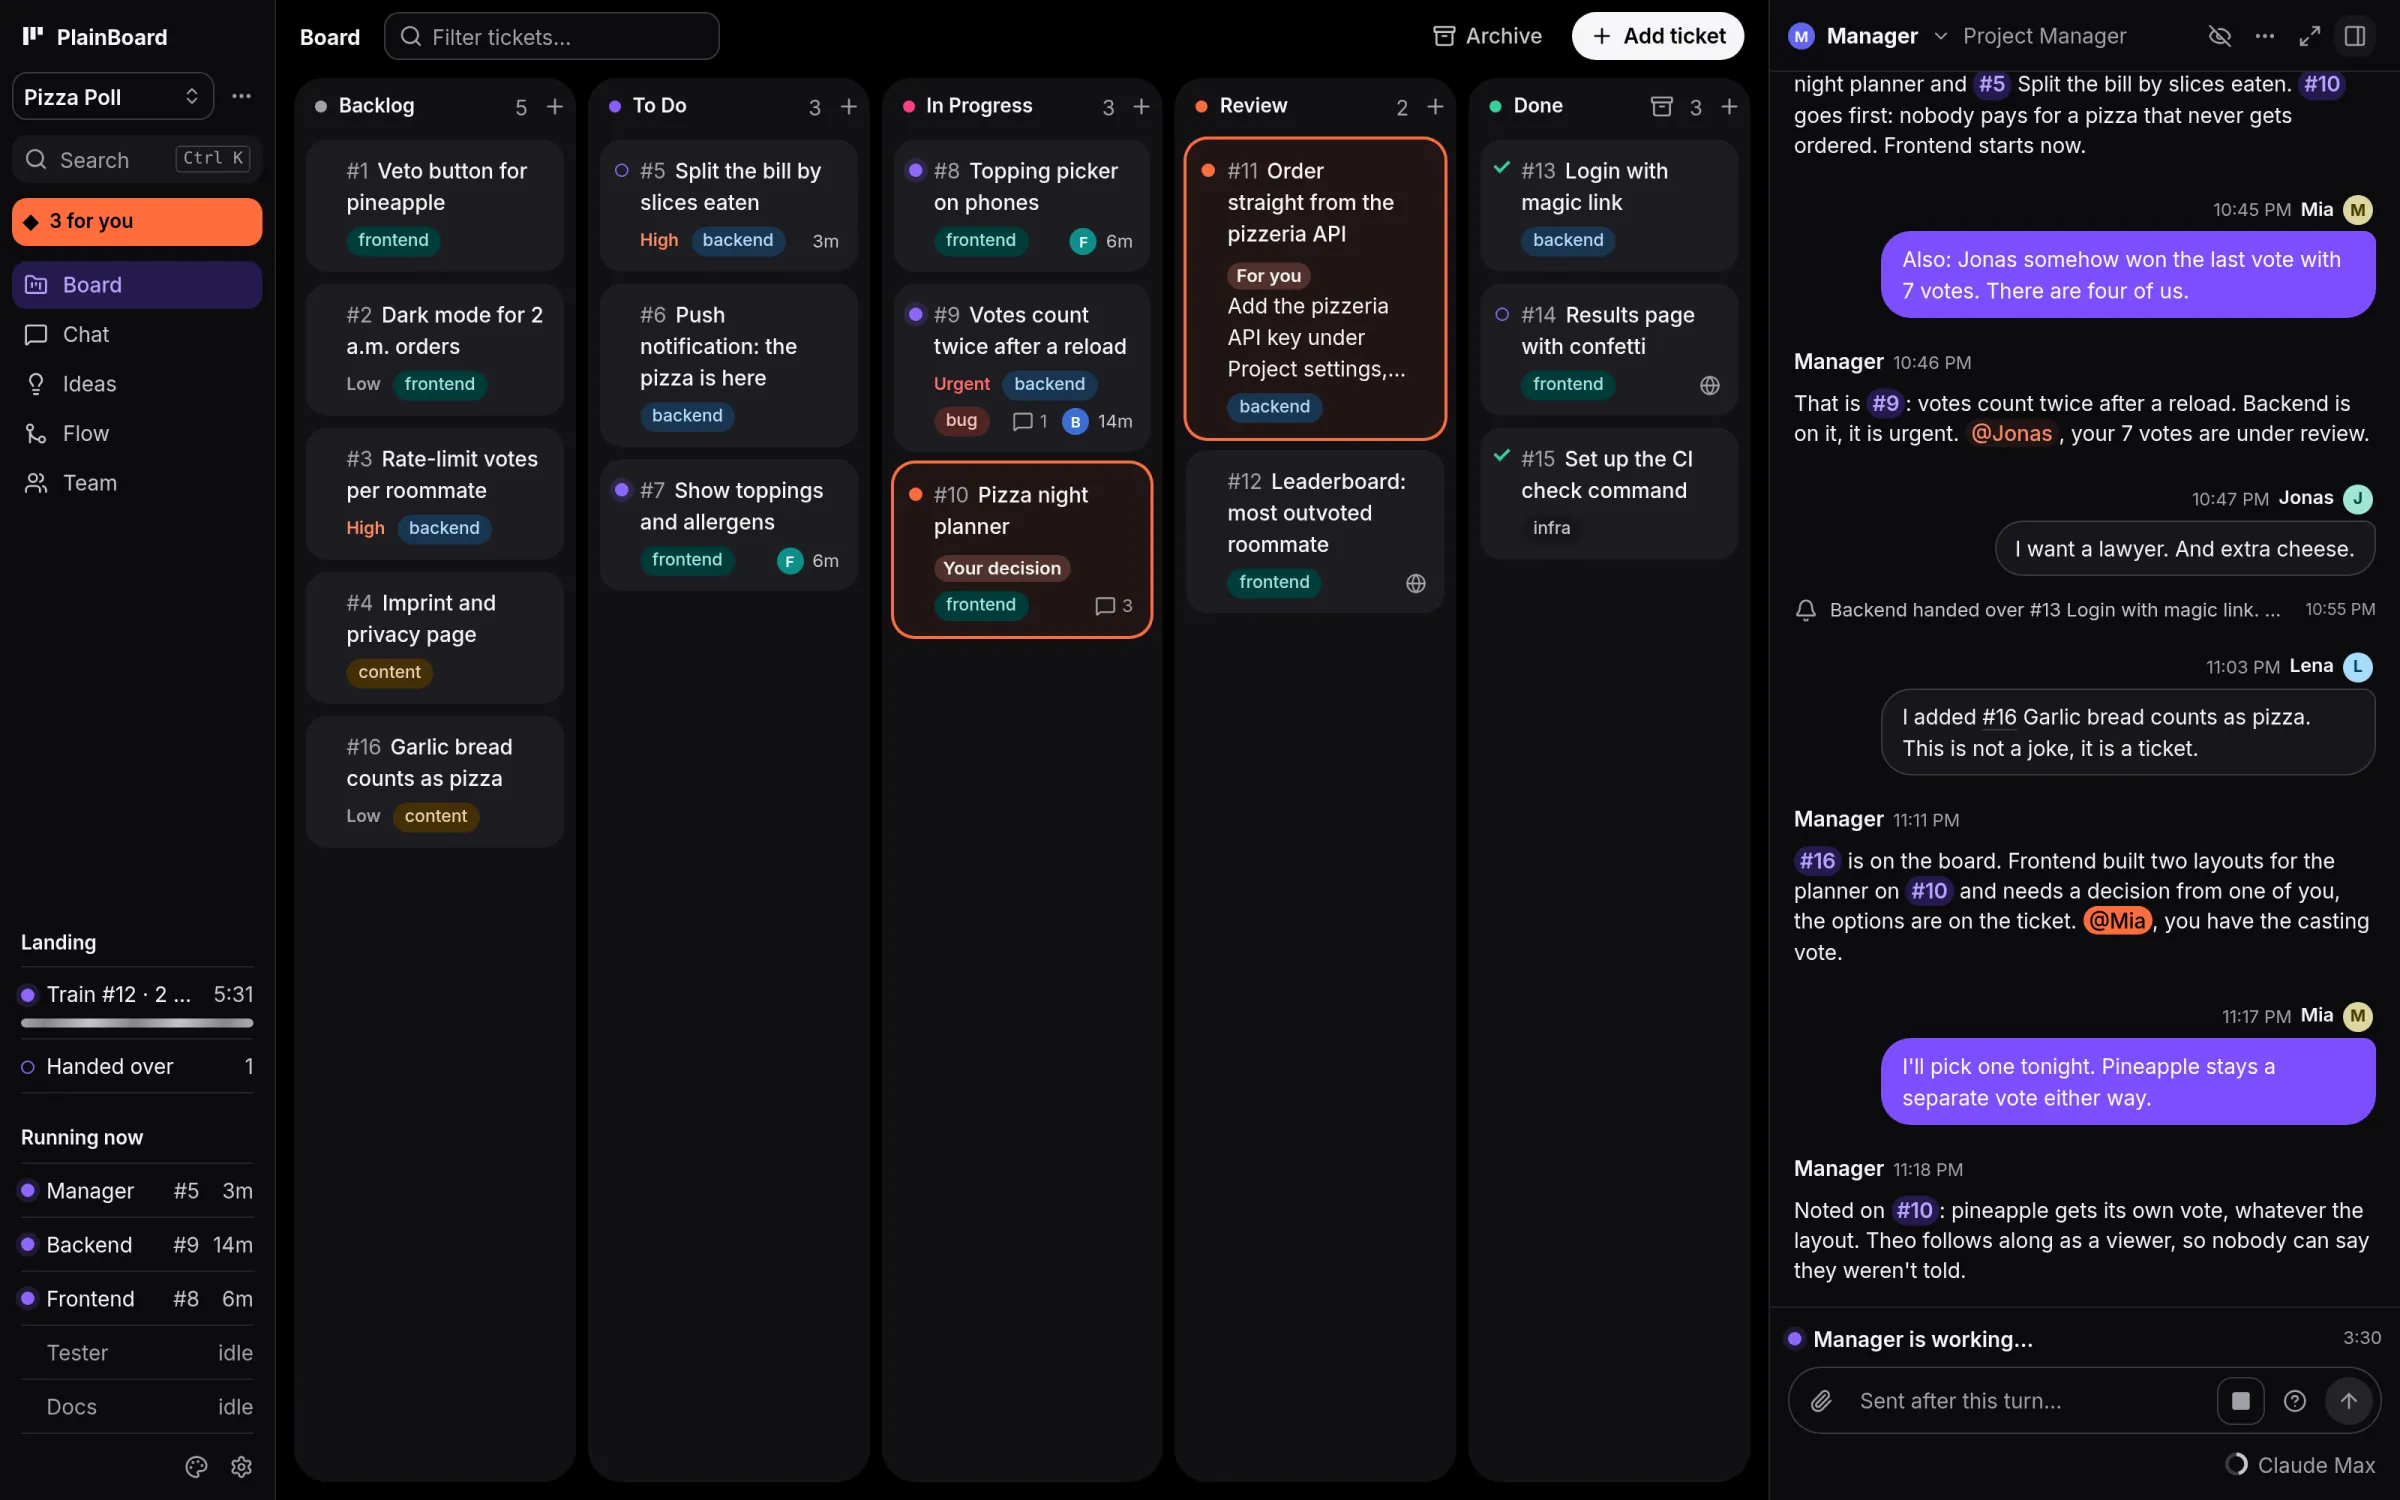
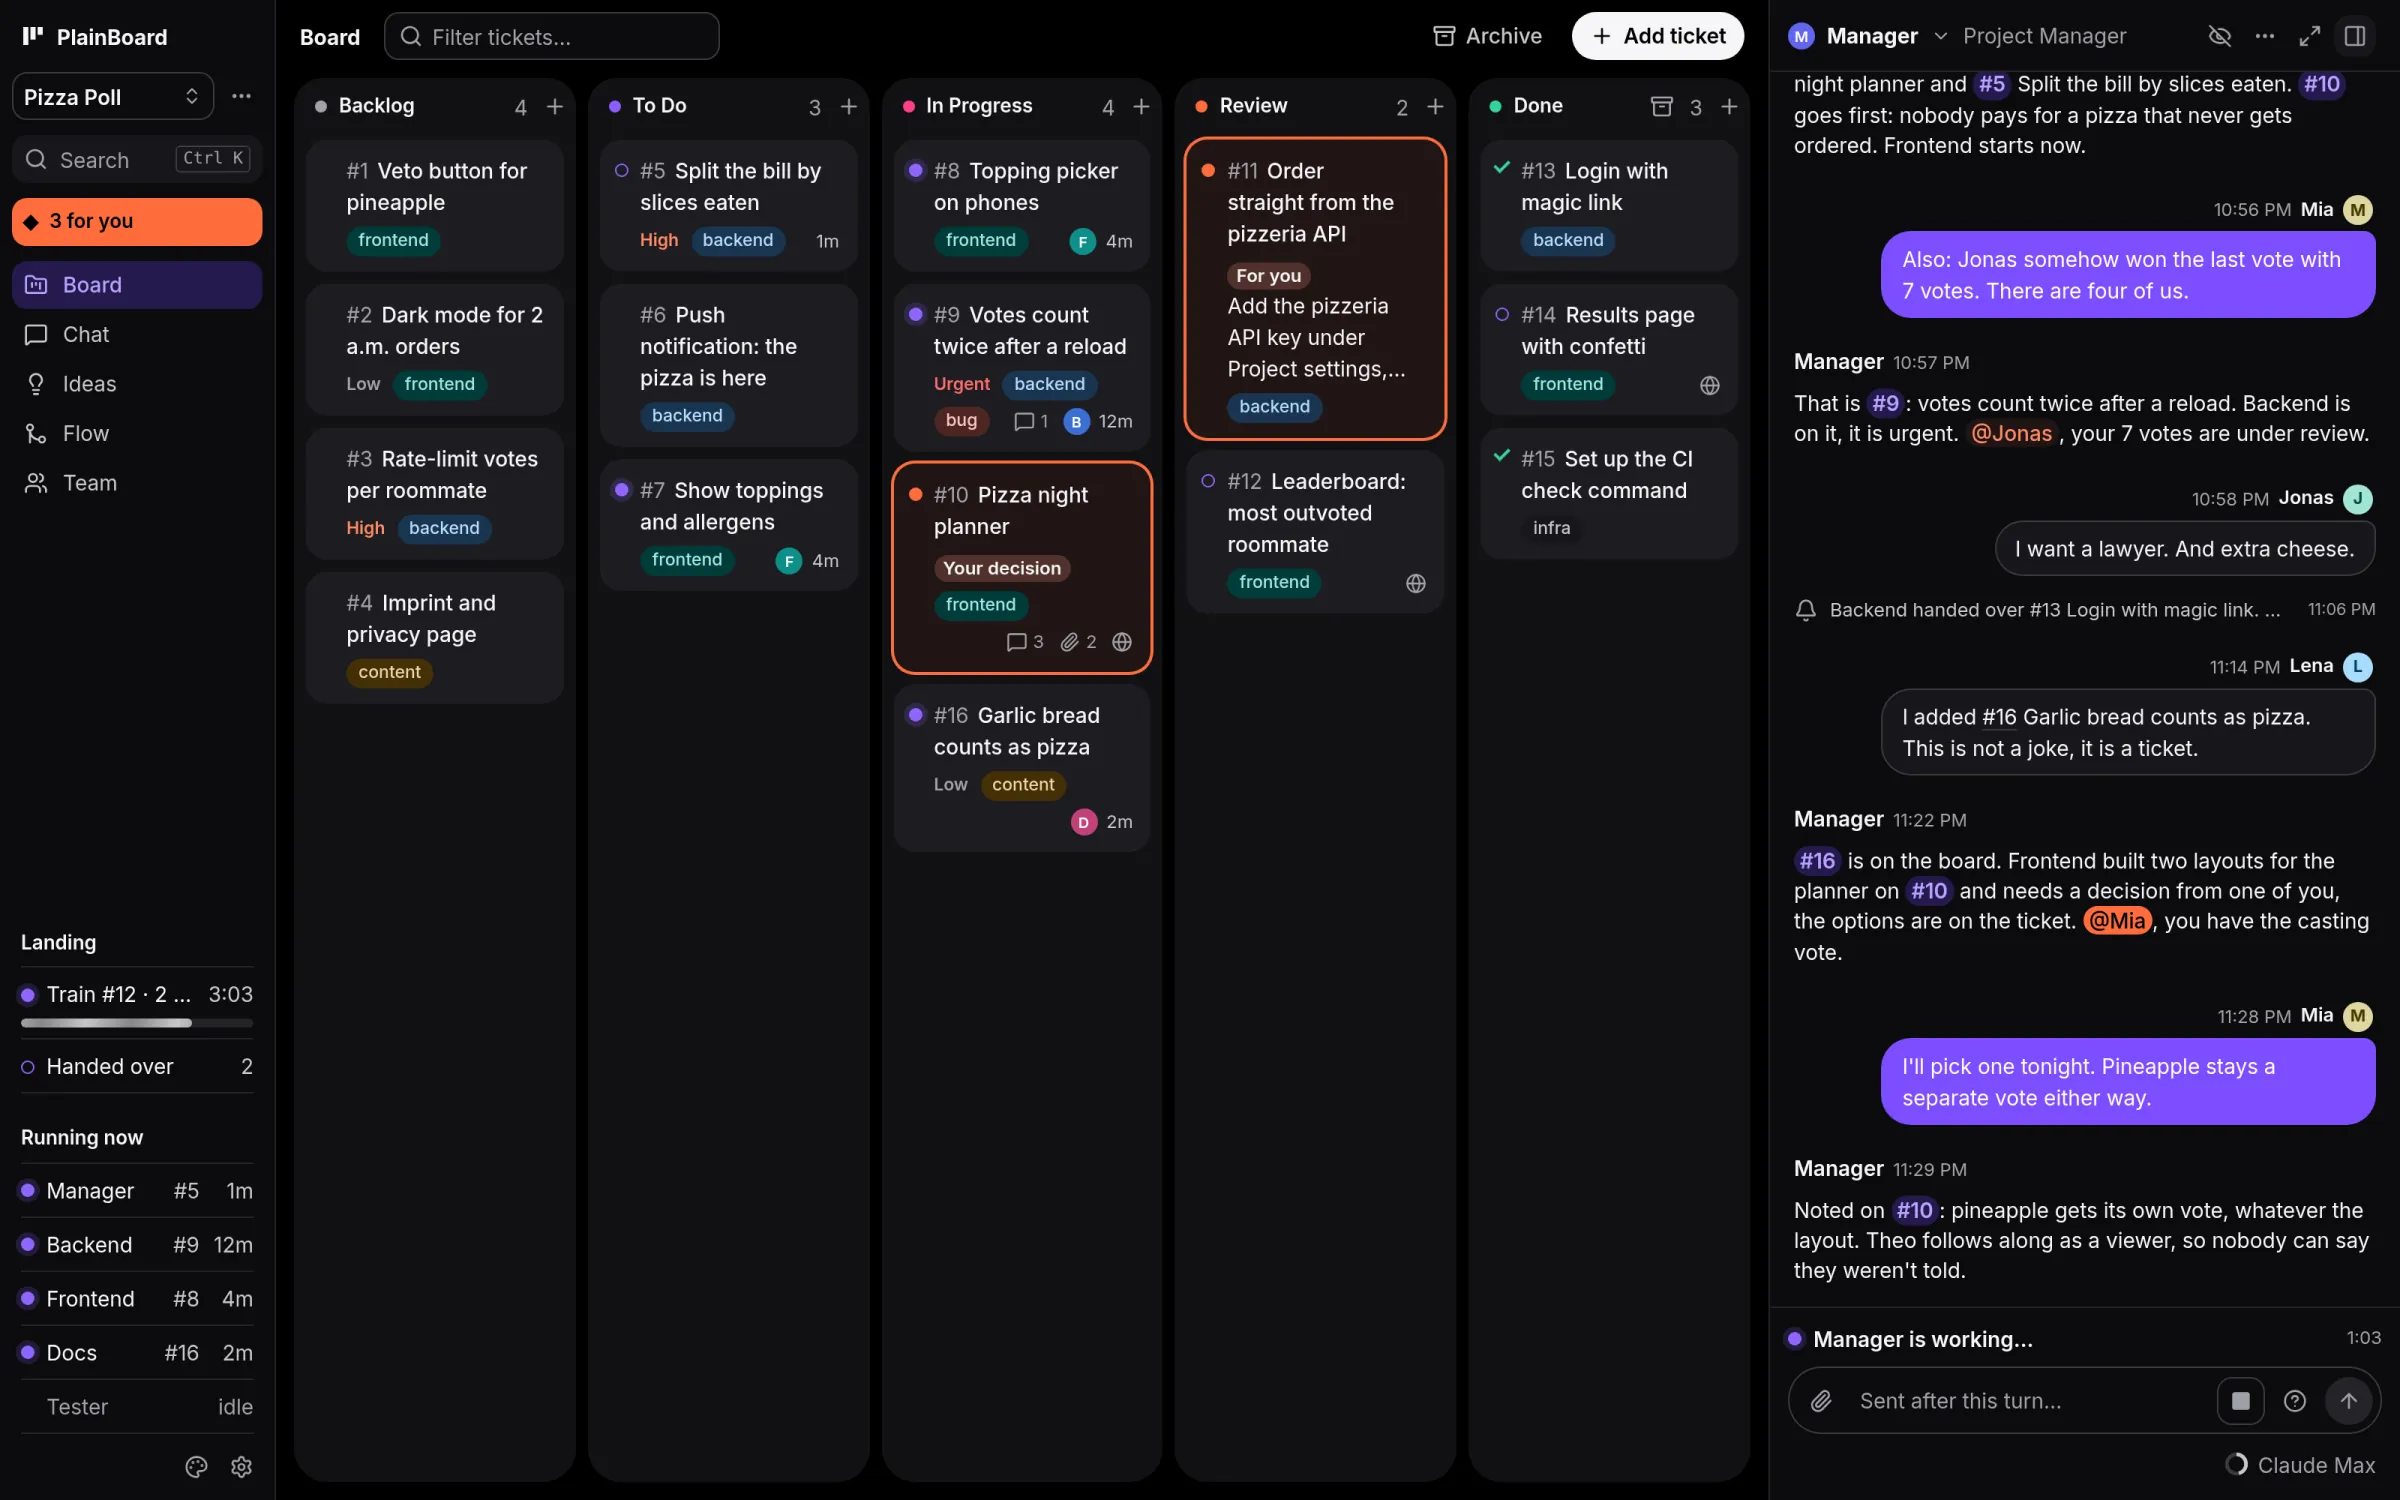
README screenshots: richer demo data, decision pictures, phone ticket (#105)
The demo project now has pictures on the two options of its decision, a customer text,
Docs at work in the second repository, a held branch and a train history with a failed
train and its repair, and a fourth idea topic. The members screenshot is cropped to its
content, and the phone row shows the decision instead of the ideas. The scripts in
scripts/screenshots carry all of it, including the two layout pictures.

diff --git a/scripts/screenshots/seed_db.py b/scripts/screenshots/seed_db.py
@@ -18,16 +18,19 @@ agents = {a.name: a.id for a in s.scalars(select(m.Agent).where(m.Agent.project_
 MGR, BE, FE, TE = agents["Manager"], agents["Backend"], agents["Frontend"], agents["Tester"]
 tasks = {t.number: t for t in s.scalars(select(m.Task).where(m.Task.project_id == P))}
 s.execute(update(m.Project).where(m.Project.id == P).values(label_colors={"backend": "blue", "frontend": "teal", "content": "amber", "bug": "red", "infra": "gray"}))
-status = {5: "todo", 6: "todo", 7: "todo", 8: "in_progress", 9: "in_progress", 10: "in_progress", 11: "review", 12: "review", 13: "done", 14: "done", 15: "done"}
+status = {5: "todo", 6: "todo", 7: "todo", 8: "in_progress", 9: "in_progress", 10: "in_progress", 16: "in_progress", 11: "review", 12: "review", 13: "done", 14: "done", 15: "done"}
 for n, st in status.items():
     tasks[n].status = st; tasks[n].position = n * 1024
 tasks[11].user_action = "Add the pizzeria API key under Project settings, Secrets, then tell the manager."
 tasks[12].customer_title = "Leaderboard"; tasks[14].customer_title = "Results page"
+tasks[10].customer_title = "Plan pizza night in one place"
+tasks[10].customer_description = "Who comes, which pizzeria and when to order, on one page."
 tasks[10].description = "## Goal\n\nOne page to plan Friday: who comes, which pizzeria, when to order.\n\n- Works on phones\n- Pineapple is its own vote"
+shots = list(s.scalars(select(m.Attachment.id).where(m.Attachment.task_id == tasks[10].id).order_by(m.Attachment.id)))
 s.add(m.Decision(project_id=P, task_id=tasks[10].id, requested_by_agent_id=FE, question="Which layout for the planner?",
                  details="Both are built and running on the preview. Pick one, the other goes.",
-                 options=[{"label": "A: One list", "description": "Everything on one page: guests, pizzeria, time. Quick on phones.", "attachment_ids": []},
-                          {"label": "B: Steps", "description": "Three short steps with a summary at the end. Fewer mistakes, one more tap.", "attachment_ids": []}],
+                 options=[{"label": "A: One list", "description": "Everything on one page: guests, pizzeria, time. Quick on phones.", "attachment_ids": [shots[0]]},
+                          {"label": "B: Steps", "description": "Three short steps with a summary at the end. Fewer mistakes, one more tap.", "attachment_ids": [shots[1]]}],
                  attachment_ids=[], status="open", created_at=ago(14), updated_at=ago(14)))
 for task, who, body, mins in [(10, "Jonas", "@mia you have the casting vote, I am biased towards anything with a checkbox.", 11), (10, "Lena", "B looks nicer, but A is what I would use at 7 p.m. on a Friday.", 9),
                               (9, "Theo", "Can confirm, I voted once and it says 2.", 30)]:
@@ -36,7 +39,8 @@ s.add(m.Comment(task_id=tasks[10].id, author_kind="agent", author_agent_id=FE, b
 
 # Running turns and assignments.
 runs = {}
-for agent, task, mins, trig in [(BE, 9, 12, "assignment"), (FE, 8, 4, "assignment"), (MGR, 5, 1, "ticket")]:
+DOCS = agents["Docs"]
+for agent, task, mins, trig in [(BE, 9, 12, "assignment"), (FE, 8, 4, "assignment"), (DOCS, 16, 2, "assignment"), (MGR, 5, 1, "ticket")]:
     r = m.Run(project_id=P, agent_id=agent, trigger=trig, status="running", task_id=tasks[task].id, context_tokens=48000 if agent == MGR else 12000, created_at=ago(mins), started_at=ago(mins))
     s.add(r); s.flush(); runs[agent] = r
 def assignment(task, agent, title, st, mins, finished=None):
@@ -48,6 +52,7 @@ def assignment(task, agent, title, st, mins, finished=None):
     return a
 assignment(9, BE, "Count every vote once, also after a reload", "running", 12)
 assignment(8, FE, "Topping picker on phones", "running", 4)
+assignment(16, DOCS, "Garlic bread FAQ on the site", "running", 2)
 assignment(7, FE, "Show toppings and allergens", "queued", 3)
 assignment(13, BE, "Login with magic link", "done", 95, 41)
 assignment(14, FE, "Results page with confetti", "done", 120, 66)
@@ -75,7 +80,8 @@ users = {u.name: u.id for u in s.scalars(select(m.User))}
 s.add(m.Mention(user_id=users["Mia"], project_id=P, kind="chat", agent_id=MGR, author="Manager", excerpt="@mia, you have the casting vote.", created_at=ago(14)))
 s.add(m.Mention(user_id=users["Mia"], project_id=P, kind="comment", task_id=tasks[10].id, author="Jonas", excerpt="@mia you have the casting vote, I am biased towards anything with a checkbox.", created_at=ago(11)))
 
-# Subscriptions and their limits.
+# Subscriptions and their limits; Tester runs on Codex, so both rings show.
+s.execute(update(m.Agent).where(m.Agent.id == TE).values(provider="codex"))
 s.execute(delete(m.Account))
 s.add(m.Account(provider="claude_code", label="Claude Max", key="demo-claude", auth_mode="oauth_token", enabled=True))
 s.add(m.Account(provider="codex", label="ChatGPT Pro", key="demo-codex", auth_mode="chatgpt", enabled=True))
@@ -104,17 +110,30 @@ for rid, branch, title, agent, task, st, mins, tr, merged in [
     (app.id, "fe/results-confetti", "Results page with confetti", FE, 14, "train", 7, train.id, None),
     (app.id, "be/magic-link", "Login with magic link", BE, 13, "merged", 45, 11, 41),
     (app.id, "te/ci-check", "Set up the CI check command", TE, 15, "merged", 160, 10, 150),
+    (app.id, "fe/leaderboard", "Leaderboard: most outvoted roommate", FE, 12, "open", 25, None, None),
     (site.id, "docs/imprint", "Imprint and privacy page", agents["Docs"], 4, "merged", 70, None, 68),
 ]:
     s.add(m.Landing(project_id=P, repository_id=rid, branch=branch, title=title, agent_id=agent, task_id=tasks[task].id, status=st, train_id=tr,
                     merged_at=ago(merged) if merged else None, created_at=ago(mins), updated_at=ago(merged or mins)))
-for tid, mins, secs, size in [(10, 150, 262, 3), (11, 41, 241, 2), (9, 300, 288, 4)]:
-    s.add(m.Train(id=tid, project_id=P, repository_id=app.id, mode="command", status="landed", branch=f"plainboard/train-{tid}", base="main", size=size, check_seconds=secs,
-                  created_at=ago(mins + secs / 60), updated_at=ago(mins), finished_at=ago(mins)))
+s.flush()
+s.execute(update(m.Landing).where(m.Landing.branch == "fe/leaderboard").values(hold="message", held_at=ago(24), updated_at=ago(24), hold_reason="Lena asked for a vote on the colours first"))
+history = [
+    (7, "landed", 300, 288, ["be/schema", "fe/app-shell", "te/lint", "docs/readme"], ""),
+    (8, "failed", 240, 198, ["fe/vote-page", "be/pizzeria-stub"], "test: vote page shows the winner"),
+    (9, "landed", 215, 233, ["fe/vote-page", "be/pizzeria-stub"], ""),
+    (10, "landed", 150, 262, ["te/ci-check", "be/vote-api", "fe/share-link"], ""),
+    (11, "landed", 41, 241, ["be/magic-link", "fe/results-page"], ""),
+]
+for tid, st, mins, secs, branches, failed in history:
+    s.add(m.Train(id=tid, project_id=P, repository_id=app.id, mode="command", status=st, branch=f"plainboard/train-{tid}", base="main", size=len(branches), check_seconds=secs,
+                  failed_checks=failed, group_no=1 if tid == 9 else None, created_at=ago(mins + secs / 60), updated_at=ago(mins), finished_at=ago(mins)))
+    s.add(m.FlowEvent(project_id=P, at=ago(mins), kind=f"train.{st}", train_id=tid, data={"branches": branches}))
+    if st == "failed":
+        s.add(m.FlowEvent(project_id=P, at=ago(mins - 1), kind="train.repair_ordered", train_id=tid, agent_id=FE))
 
 # Ideas: topics, cards, a question.
 topics = {}
-for i, (name, hint) in enumerate([("Voting", "4 ideas about who decides"), ("Ordering", "Getting the pizza here"), ("Money", "Who pays what")]):
+for i, (name, hint) in enumerate([("Voting", "4 ideas about who decides"), ("Ordering", "Getting the pizza here"), ("Money", "Who pays what"), ("Toppings", "What goes on it")]):
     tp = m.IdeaTopic(project_id=P, name=name, hint=hint, color=i * 3); s.add(tp); s.flush(); topics[name] = tp.id
 for topic, title, text, author, votes, q in [
     ("Voting", "Ranked choice", "Rank your top three instead of one vote, so nobody ends up with their last choice.", "Lena", 3, None),
@@ -125,6 +144,9 @@ for topic, title, text, author, votes, q in [
     ("Ordering", "Order with one tap", "Once the vote is closed, one button sends the order to the pizzeria.", "Jonas", 2, None),
     ("Ordering", "Delivery tracker", "Show where the pizza is, like a parcel.", "Lena", 0, None),
     ("Money", "Split by slices", "Count slices per person and split the bill by that.", "Mia", 2, None),
+    ("Toppings", "Half-and-half pizzas", "Two toppings on one pizza, so the vote can end in a draw.", "Lena", 0, None),
+    ("Toppings", "Allergy filter", "Hide every pizza someone in the group cannot eat.", "Theo", 0, None),
+    ("Toppings", "Topping of the month", "One new topping each month that everyone has to try once.", "Jonas", 0, None),
     ("Money", "Tip jar", "Round up for the driver, shared evenly.", "Jonas", 1, None),
 ]:
     idea = m.Idea(project_id=P, title=title, text=text, author=author, status="open", topic_id=topics[topic], sort_state=idea_service.SORTED, votes=votes,

diff --git a/scripts/screenshots/seed_api.py b/scripts/screenshots/seed_api.py
@@ -15,6 +15,7 @@ with Playwright. Nothing here starts an agent or touches a real installation.
 Desktop 1600x1000, phone 390x844, both at 2x, in the slop2gether design, dark and light.
 usage: seed_api.py <base url>"""
 import sys
+from pathlib import Path
 
 import httpx
 B = sys.argv[1].rstrip("/") if len(sys.argv) > 1 else "http://127.0.0.1:8080"
@@ -59,5 +60,8 @@ tickets = [
 for title, labels, prio in tickets:
     t = ok(c.post(f"/api/projects/{pid}/tasks", json={"title": title, "status": "backlog"}))
     ok(c.patch(f"/api/tasks/{t['id']}", json={"labels": labels, "priority": prio, "description": f"## Goal\n\n{title}.\n\n- Works on phones\n- Covered by a test\n\n```bash\nnpm run check\n```"}))
+# The two layouts Frontend built for #10, to compare on its decision.
+here = Path(__file__).parent
+ok(c.post("/api/tasks/10/attachments", files=[("files", (f"planner-{v}.png", (here / f"planner-{v}.png").read_bytes(), "image/png")) for v in "ab"]))
 ok(c.post(f"/api/projects/{pid}/notes", json={"title": "House rules", "content": "1. One vote per person per Friday\n2. Pineapple is always its own vote\n3. Whoever loses orders", "pinned": True}))
 print("project", pid, users)

diff --git a/README.md b/README.md
@@ -154,7 +154,7 @@ check** (format, lint) runs at once, the full **check command** once per train. 
 
 <picture>
   <source media="(prefers-color-scheme: dark)" srcset="docs/screenshots/flow-dark.webp">
-  <img src="docs/screenshots/flow-light.webp" alt="The flow view: agents at work, a handed-over branch, a train of two branches being checked, and the branches that landed" width="100%">
+  <img src="docs/screenshots/flow-light.webp" alt="The flow view: agents at work in two repositories, a handed-over and a held branch, a train of two branches being checked, what landed, and the history with a failed train and its repair" width="100%">
 </picture>
 
 ### Decide in one click
@@ -164,7 +164,7 @@ check** (format, lint) runs at once, the full **check command** once per train. 
     <td width="60%">
 <picture>
   <source media="(prefers-color-scheme: dark)" srcset="docs/screenshots/ticket-dark.webp">
-  <img src="docs/screenshots/ticket-light.webp" alt="A ticket on which an agent asks for a decision between two layouts">
+  <img src="docs/screenshots/ticket-light.webp" alt="A ticket on which an agent asks for a decision between two layouts, each with a picture">
 </picture>
     </td>
     <td width="40%" valign="top">
@@ -193,8 +193,8 @@ check** (format, lint) runs at once, the full **check command** once per train. 
 </picture>
   &nbsp;
 <picture>
-  <source media="(prefers-color-scheme: dark)" srcset="docs/screenshots/phone-ideas-dark.webp">
-  <img src="docs/screenshots/phone-ideas-light.webp" alt="The ideas on a phone" width="30%">
+  <source media="(prefers-color-scheme: dark)" srcset="docs/screenshots/phone-ticket-dark.webp">
+  <img src="docs/screenshots/phone-ticket-light.webp" alt="A decision between two layouts on a phone" width="30%">
 </picture>
 </p>
 
